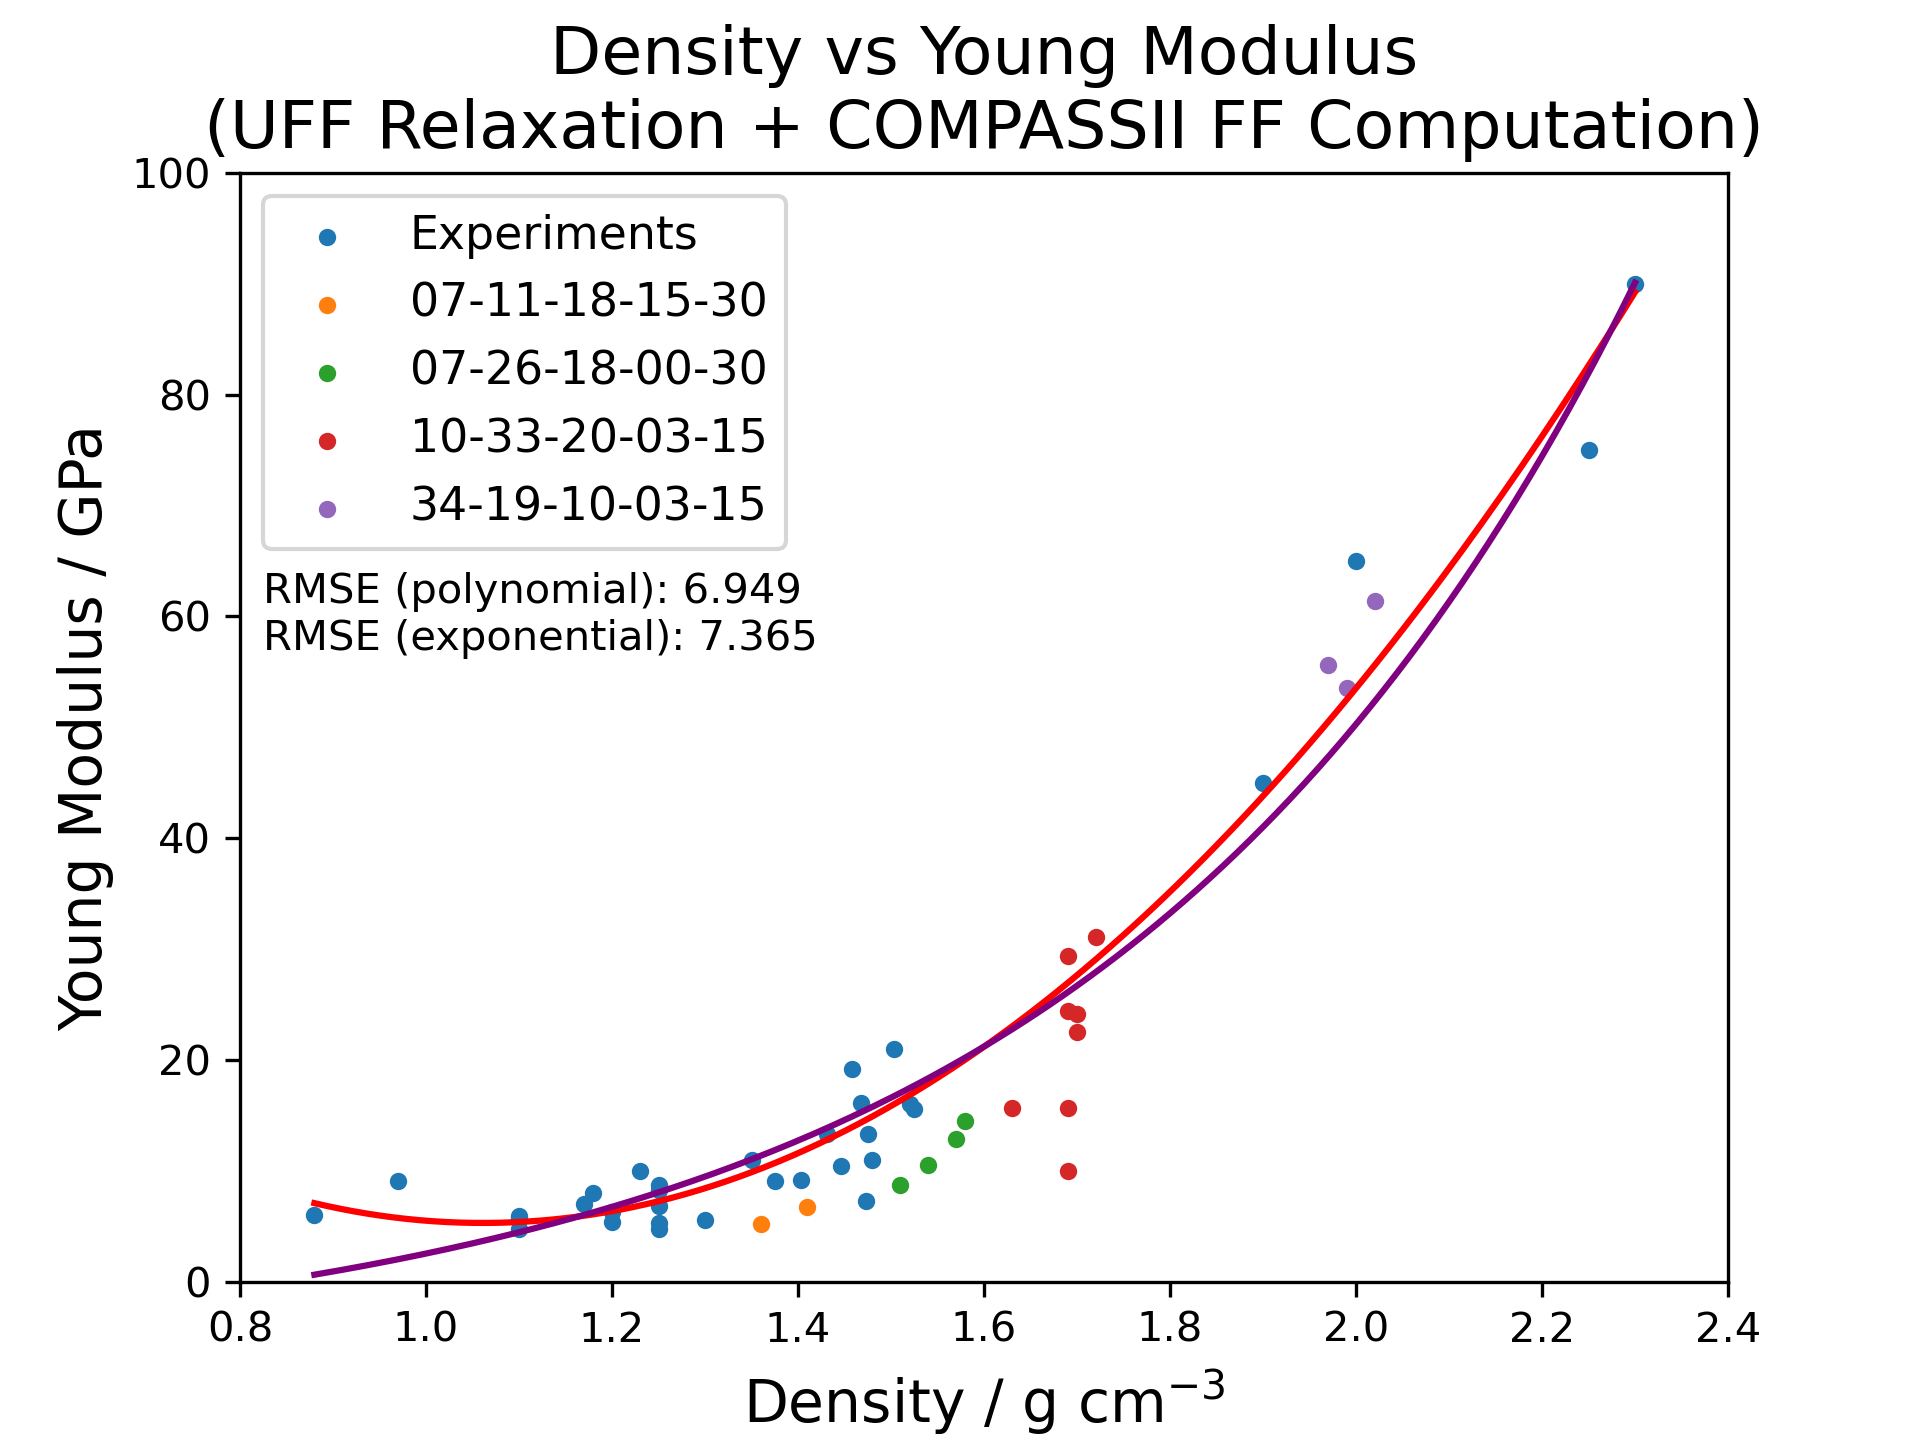
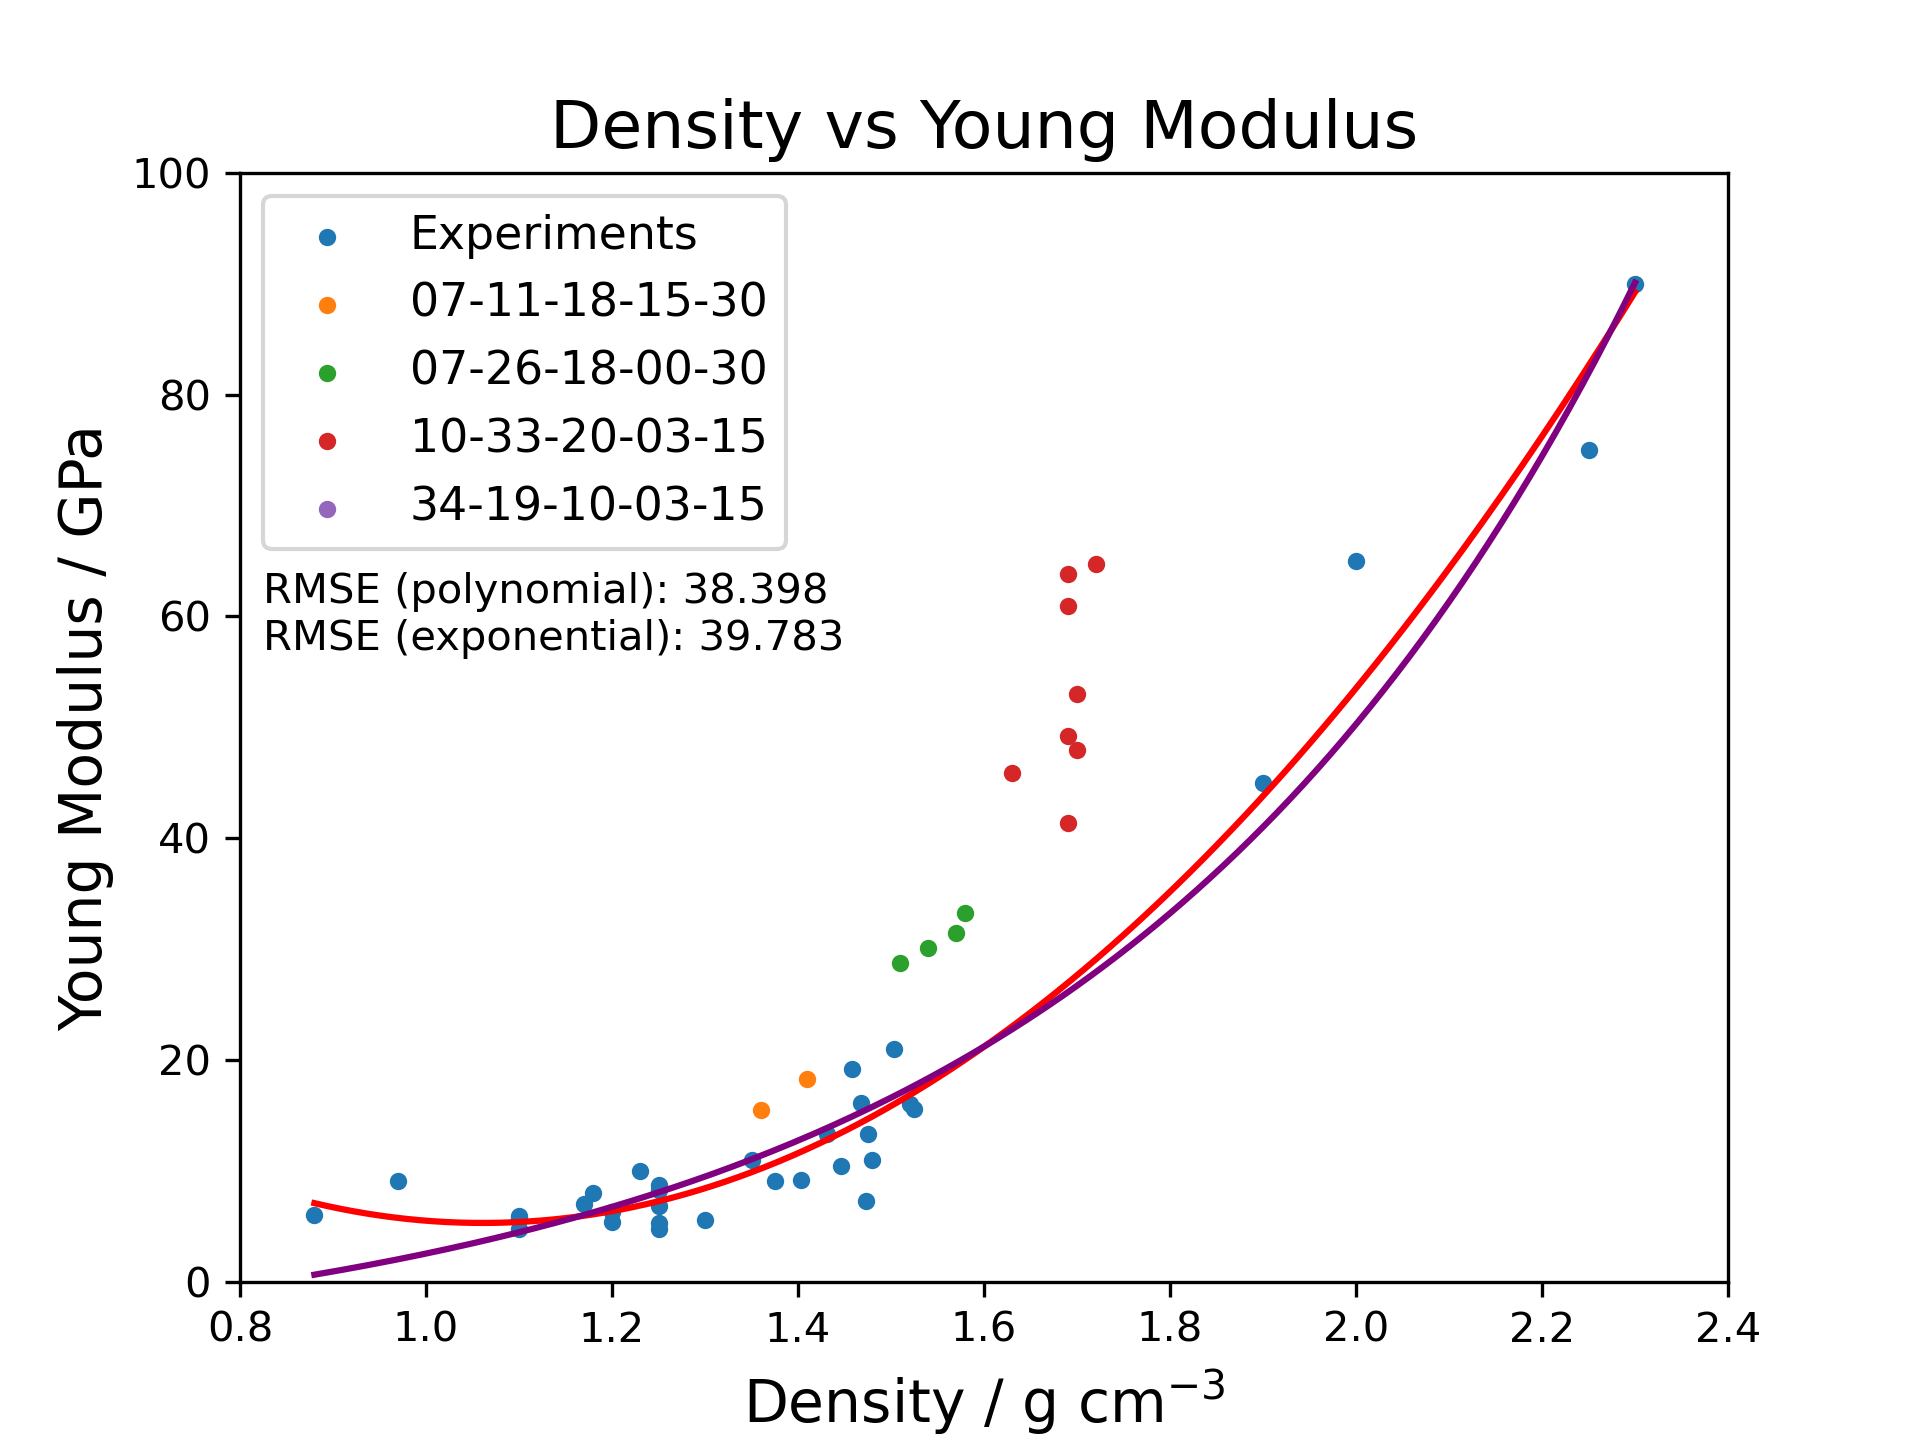
Update data and figures

diff --git a/plots/figure_3/ym_plot.py b/plots/figure_3/ym_plot.py
@@ -9,8 +9,8 @@ title_size,axis_size = 16,14
 data = [
     ('ml','MD simulation using M3GNet'),
     ('vasp','VASP computation'),
-    ('forcite','COMPASSII Relaxation & Computation'),
-    ('uff', 'UFF Relaxation + COMPASSII FF Computation'),
+    ('forcite','DFT Optimization + COMPASSII FF Computation'),
+    ('uff', 'DFT Optimization + UFF Computation'),
 ]
 labels = {
     "EXP" : "07-26-18-00-30",
@@ -107,7 +107,7 @@ for filename,label in data:
     plt.text(0.825,57,f'RMSE (polynomial): {rmse_poly:.3f}\nRMSE (exponential): {rmse_exp:.3f}',fontsize=10)
 
     plt.legend(prop={'size':11})
-    plt.title(f'Density vs Young Modulus\n({label})',size=title_size)
+    plt.title(f'Density vs Young Modulus',size=title_size)
     plt.xlabel('Density / g cm$^{-3}$',size=axis_size)
     plt.ylabel("Young Modulus / GPa",size=axis_size)
     plt.xlim((0.8,2.4))

diff --git a/README.md b/README.md
@@ -1,5 +1,5 @@
 # High-Fidelity and Accelerated Modeling of Low-κ Organosilicate Glass with M3GNet Machine Learning Interatomic Potentials
 
-This repository contains all the supplementary materials that are from the manuscript for evaluating M3GNet machine learning interatomic potentIals. All diagrams and scripts can be found in this repository.
+This repository contains all the supplementary materials that are from the manuscript for evaluating M3GNet machine learning interatomic potentials. All diagrams and scripts can be found in this repository.
 
 Additional `README.md` files can be found in the various subdirectories to help with running the provided LAMMPS scripts.
